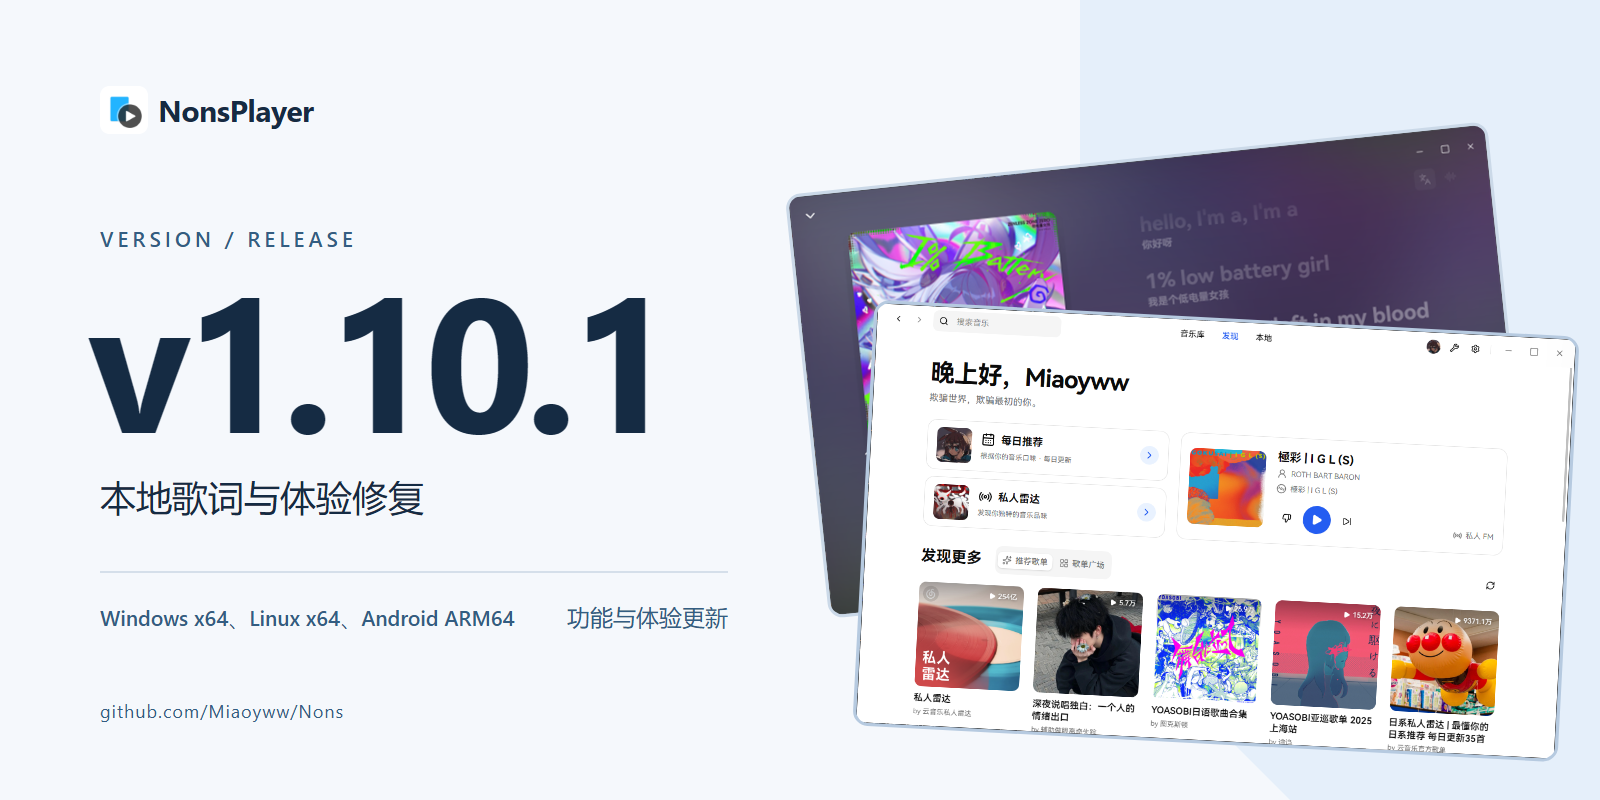
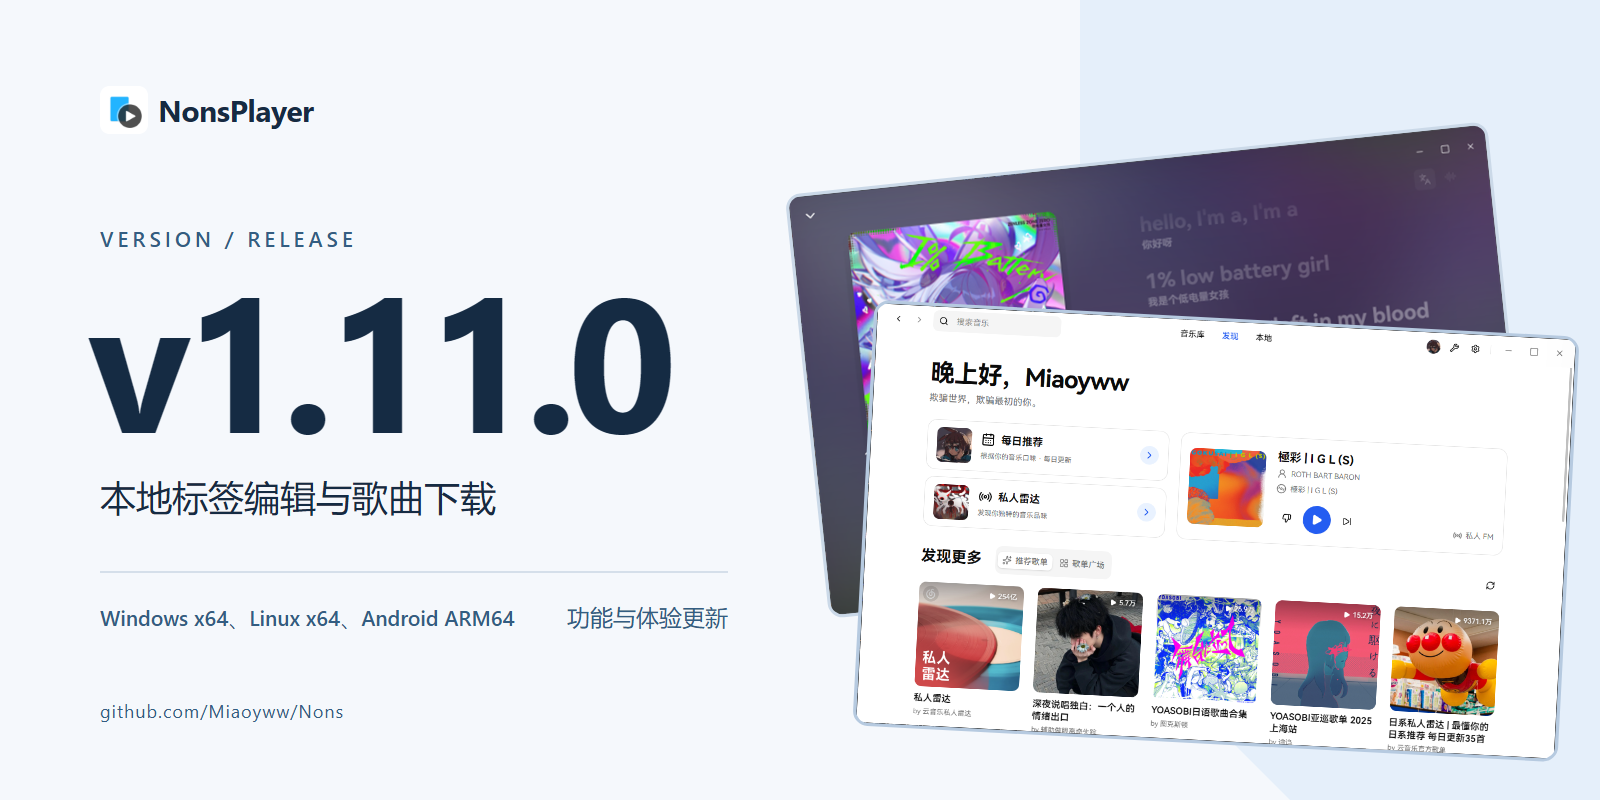
chore(release): 发布 1.11.0

Changed region(s): [[0.25, 0.375, 0.4375, 0.5625], [0.0938, 0.5938, 0.3125, 0.6562]]

diff --git a/docs/release-assets/editor.html b/docs/release-assets/editor.html
@@ -101,11 +101,11 @@
       <div class="controls">
         <label>
           版本号
-          <input id="edit-version" value="v1.10.1" maxlength="12" />
+          <input id="edit-version" value="v1.11.0" maxlength="12" />
         </label>
         <label>
           副标题
-          <input id="edit-subtitle" value="本地歌词与体验修复" maxlength="28" />
+          <input id="edit-subtitle" value="本地标签编辑与歌曲下载" maxlength="28" />
         </label>
         <label>
           平台
@@ -125,9 +125,9 @@
           role="img"
           aria-labelledby="title desc"
         >
-          <title id="title">NonsPlayer v1.10.1 发布头图</title>
+          <title id="title">NonsPlayer v1.11.0 发布头图</title>
           <desc id="desc">
-            蓝白扁平设计，v1.10.1，本地歌词与体验修复，Windows x64、Linux x64、Android
+            蓝白扁平设计，v1.11.0，本地标签编辑与歌曲下载，Windows x64、Linux x64、Android
             ARM64，功能与体验更新
           </desc>
           <rect width="1600" height="800" fill="#F5F8FC" />
@@ -165,10 +165,10 @@
               font-weight="700"
               letter-spacing="-9"
             >
-              v1.10.1
+              v1.11.0
             </text>
             <text id="subtitle" x="100" y="511" fill="#152B43" font-size="36" font-weight="500">
-              本地歌词与体验修复
+              本地标签编辑与歌曲下载
             </text>
             <path d="M100 572H728" stroke="#D5DFEA" stroke-width="2" />
             <text id="platform" x="100" y="626" fill="#335D82" font-size="21" font-weight="500">

diff --git a/CHANGELOG.md b/CHANGELOG.md
@@ -4,6 +4,12 @@
 
 ## [Unreleased]
 
+## [1.11.0] - 2026-11-03
+
+![NonsPlayer v1.11.0 本地标签编辑与歌曲下载头图](https://raw.githubusercontent.com/Miaoyww/Nons/v1.11.0/docs/release-assets/header.png)
+
+NonsPlayer 1.11.0 新增本地歌曲标签编辑与内嵌封面替换、Windows 原生歌曲下载与下载设置，并完善本地歌单、艺术家头像和歌曲详情体验。本次 Release 提供 **Windows x64、Linux x64 和 Android ARM64** 构建附件：Windows 提供 MSI、EXE 安装包与免安装便携 ZIP，Linux 提供 AppImage 与 deb，Android 提供 ARM64 试用 APK。
+
 ### 本地音乐
 
 - 本地音乐的“歌单”分类同时展示本地歌单与聚合歌单，并支持分别创建；本地歌单仅添加当前曲库中的本地歌曲。
